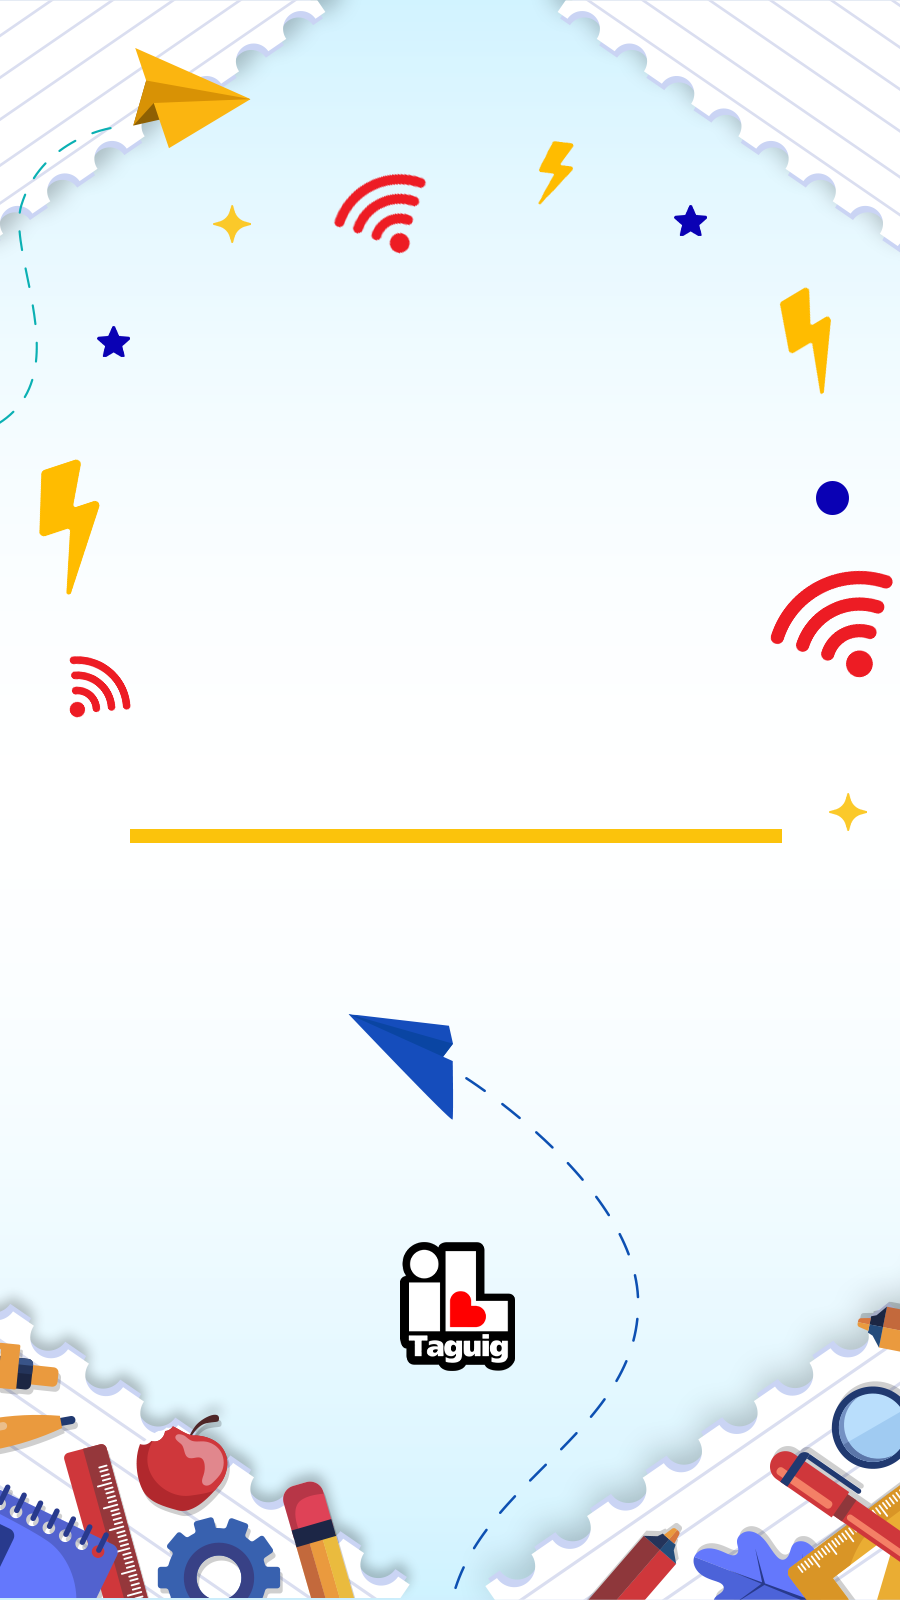
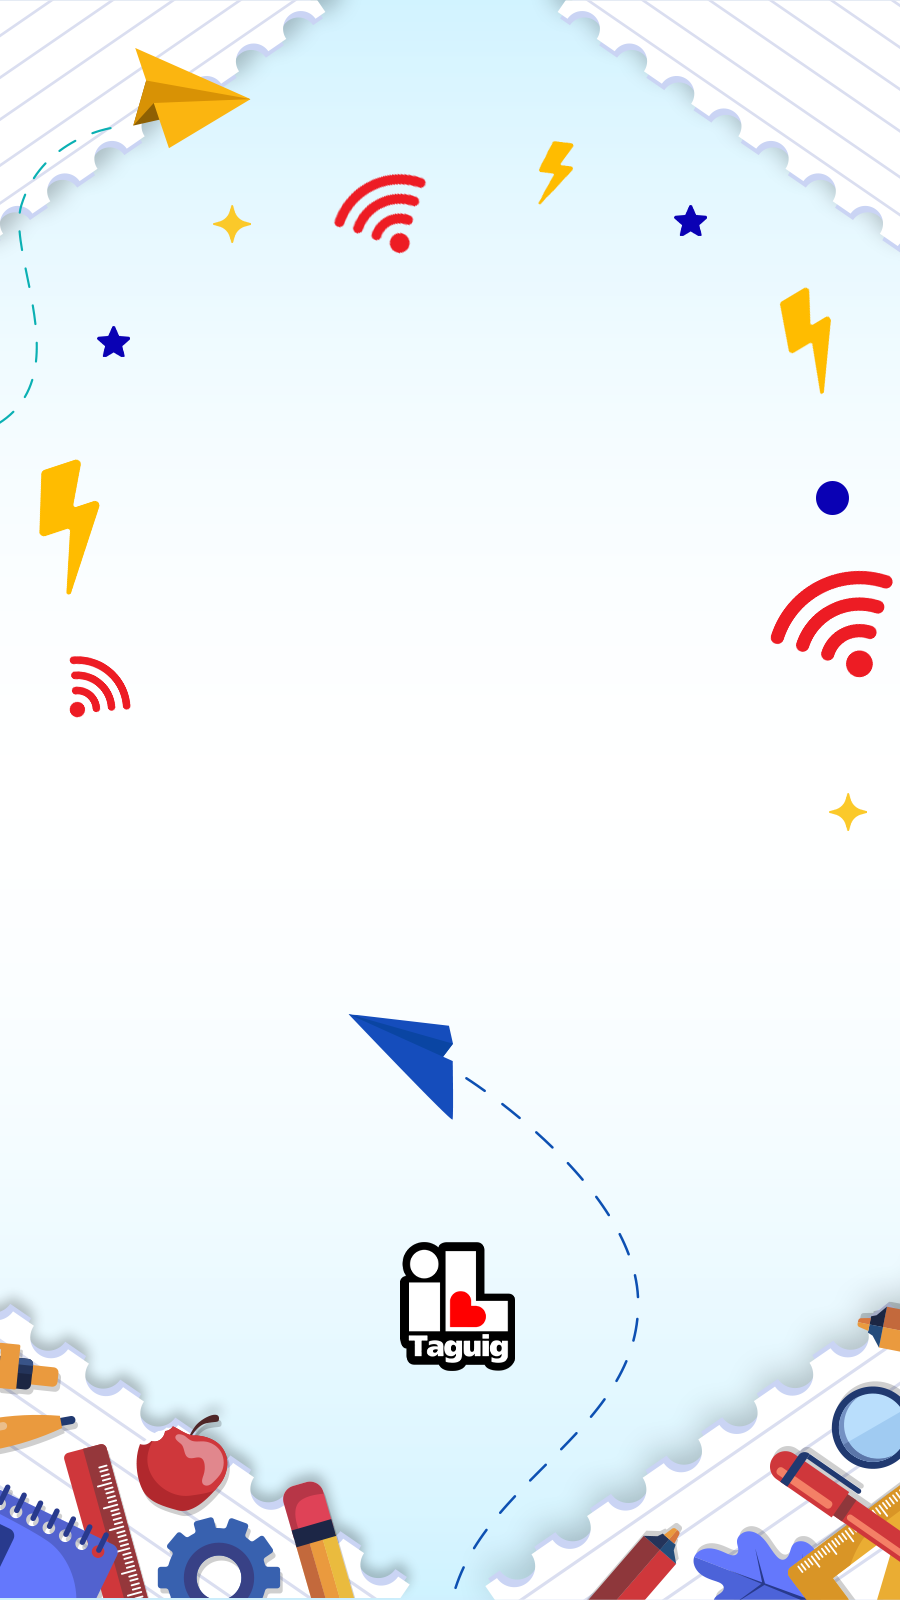
Change to text

Changed region(s): [[0.1556, 0.5, 0.8711, 0.5312]]

diff --git a/style.css b/style.css
@@ -7,18 +7,46 @@ body {
     font-family: sans-serif; 
 }
 
-.background {
-    height: 100vh;
-    overflow: hidden;
+.content {
+    text-align: center;
+    max-width: 90%;
+    display: flex;
+    flex-direction: column;
+    align-items: center;
+    line-height: 0.8;
+    position: absolute;
+    top: 35vh;
+    left: 50%;
+    transform: translate(-50%, -50%);
 }
 
 .image {
-    width: 100%;
-    height: 100%;
-    background-size: contain;
-    background-repeat: no-repeat;
+    display: flex;
+    justify-content: center;
+    align-items: center;
+    height: 100vh;
+    background-size: cover;
     background-position: center;
-    /* background-image: url("public/images/web_bg.png"); */
+    background-image: url("public/images/web_bg.png");
+}
+
+.league-spartan-content {
+  font-family: "League Spartan", sans-serif;
+  font-optical-sizing: auto;
+  font-weight: 800;
+  font-style: normal;
+}
+
+.header {
+    font-size: 20vh;
+    color: #dd1f26;
+}
+
+.sub-header {
+    color: #1A4798;
+    font-size: 5vh;
+    border-bottom: 10px solid #F4C027;
+    margin-top: 10px;
 }
 
 .button {
@@ -27,13 +55,10 @@ body {
     justify-content: center;
     background-color: #1A4798;
     color: white;
-    height: 5%;
-    width: 40%;
+    width: 80%;
     border-radius: 5rem;
-    position: absolute;
-    top: 58vh;
-    left: 50%;
-    transform: translate(-50%, -50%);
+    padding: 10px 0px 10px 0px;
+    margin-top: 50px;
 }
 
 .button:hover {
@@ -42,20 +67,29 @@ body {
 }
 
 .button h3 {
-    font-size: 1.5rem;
+    font-size: 3vh;
 }
 
 @media screen and (max-width: 800px) {
+    .content {
+        max-width: 100%;
+        width: 100vw;
+        top: 45vh;
+    }
+
     .button {
         height: 3rem;
         width: 80%;
         top: 58vh;
     }
-/* 
-    .image {
-        background-image: url("public/images/mobile_bg.png");
-        background-size: cover;
-    } */
+
+    .header {
+        font-size: 100px;
+    }
+
+    .sub-header {
+        font-size: 30px;
+    }
 }
 
 @media screen and (max-height: 360px) {

diff --git a/index.html b/index.html
@@ -7,15 +7,22 @@
         <title>Taguig School Free Wifi</title>
         <link rel="stylesheet" href="style.css">
         <link rel="icon" href="public/City_of_Taguig_Seal.ico" type="image/x-icon">
+        <link rel="preconnect" href="https://fonts.googleapis.com">
+        <link rel="preconnect" href="https://fonts.gstatic.com" crossorigin>
+        <link href="https://fonts.googleapis.com/css2?family=League+Spartan:wght@800&display=swap" rel="stylesheet">
     </head>
     <body>
         <main>
-            <div class="background">
-                <img src="" alt="free-wifi background" id="image" class="image"></img>
+            <div id="image" class="image">
+                <div class=" league-spartan-content content">
+                    <h2 class="header">FREE</h2>
+                    <h2 class="header">WIFI</h2>
+                    <p class="sub-header">LOGIN OF FOR SCHOOL </p>
+                    <button class="button" id="login">
+                        <h3>Log in</h3>
+                    </button>
+                </div>
             </div>
-            <button class="button" id="login">
-                <h3>Log in</h3>
-            </button>
         </main>
         <script src="script.js"></script>
     </body>

diff --git a/script.js b/script.js
@@ -3,10 +3,10 @@ const mediaQuery = window.matchMedia("(max-width: 810px)");
 
 const updateImage = (e) => {
     if (e.matches) {
-        img.src = "public/images/mobile_blank.png"
+        img.style.backgroundImage = "url('public/images/mobile_blank.png')"
     }
     else {
-        img.src = "public/images/web_blank.png"
+        img.style.backgroundImage = "url('public/images/web_blank.png')"
     }
 }
 
